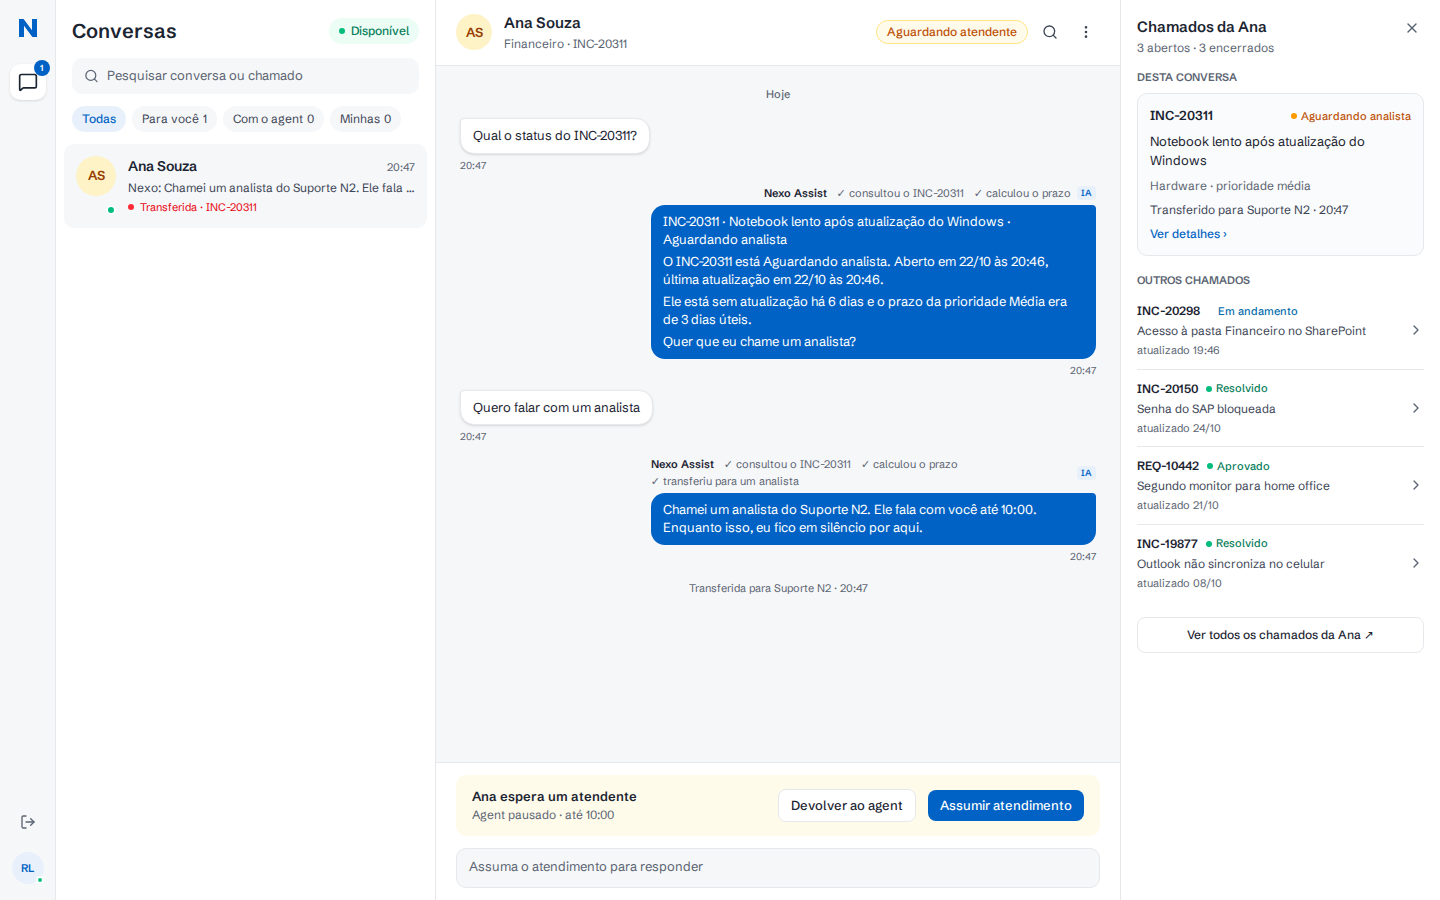
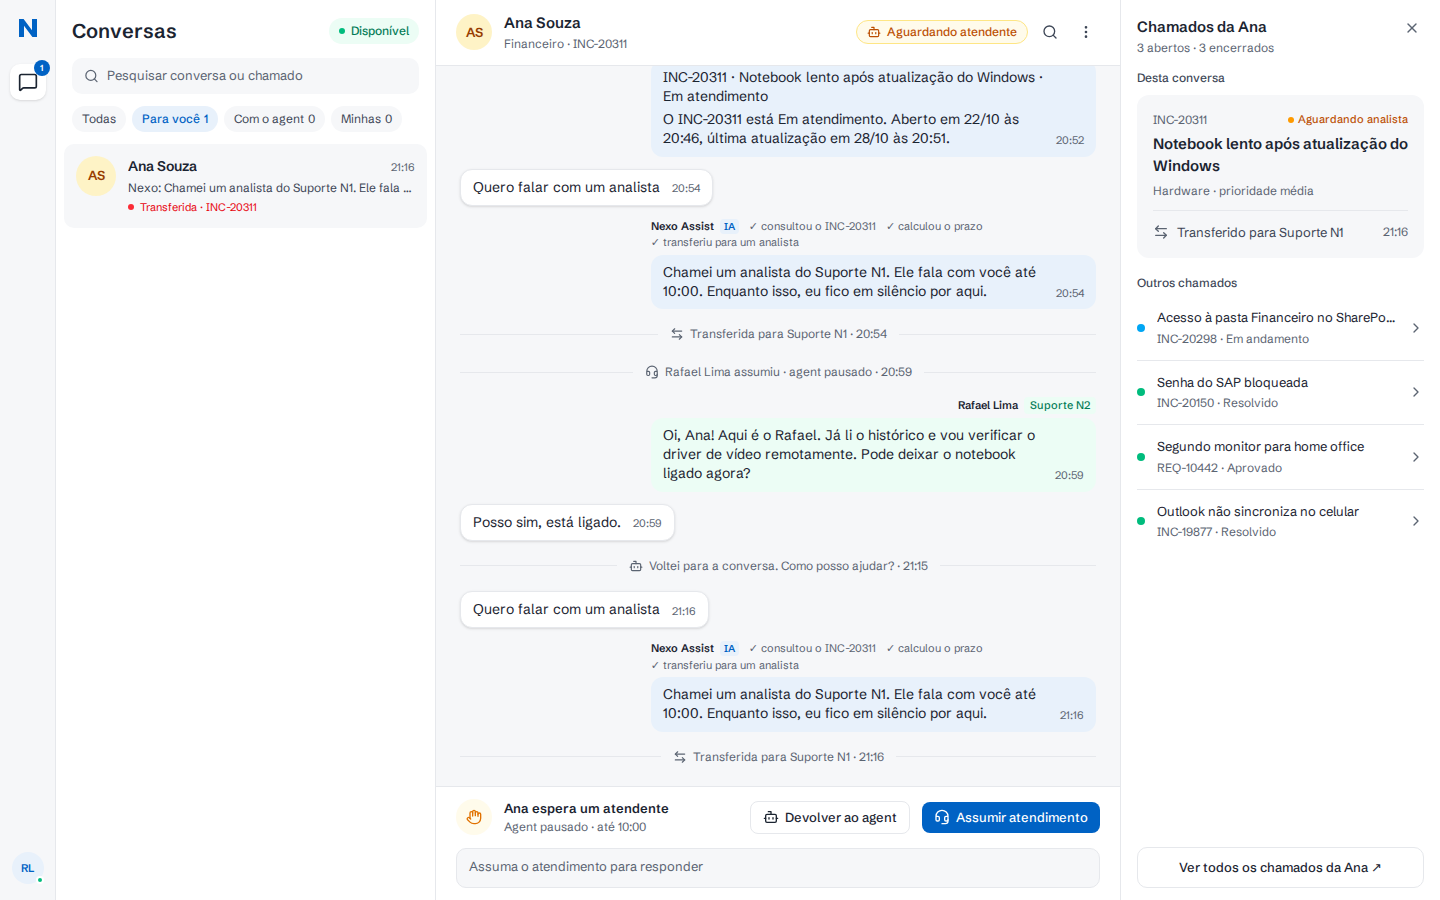
docs(console-analista): rodada 2 das telas
05 bate com a captura; em 04 resta o texto do último evento, que o André aprovou como diferença ("Mostrar a equipe (Recomendado)").

diff --git a/.specs/features/console-analista/screens.md b/.specs/features/console-analista/screens.md
@@ -1,14 +1,16 @@
 # Console do analista screens
 
 **Verifier**: independent sub-agent (author != verifier)
-**Round**: 1
+**Round**: 2
 
-Fotos tiradas pelo verificador com Chromium (playwright-core), contexto aberto já no tamanho de cada captura (1440x900 e 1567x900, escala 1x), sem redimensionar. Caminho: Ana pediu analista de novo ("Quero falar com um analista"); Rafael abriu `/console`, escolheu o filtro e clicou em "Ana Souza" (04); depois "Assumir atendimento", resposta "Oi, Ana! Aqui é o Rafael…", Ana respondeu "Posso sim, está ligado." e Rafael deixou um rascunho no campo (05). Em 05 o filtro ativo é "Todas", porque depois de assumir "Para você" fica vazio e a captura mostra a Ana na lista. Dados (nomes, horas, contadores, quantas conversas existem, não lidas, N1/N2) vêm do seed e da caminhada e não contam como diferença.
+Rodada 2: fotos retiradas por um novo verificador independente com Chromium (playwright-core), contexto aberto já no tamanho de cada captura (1440x900 e 1567x900, escala 1x), sem redimensionar. Só as linhas `differs` da rodada 1 foram reabertas; as linhas `same` ficaram como estavam. Caminho: Rafael abriu `/console`, clicou em "Ana Souza" e em "Devolver ao agent"; Ana escreveu "Quero falar com um analista" em `/`; Rafael recarregou, escolheu "Para você" e clicou em "Ana Souza" (04). Depois "Assumir atendimento", resposta curta "Oi, Ana! Aqui é o Rafael. Pode deixar o notebook ligado agora?", Ana respondeu "Posso sim, está ligado." e Rafael deixou um rascunho no campo, com o filtro "Todas" (05). O painel não mostrou "Tentar de novo" em nenhuma das fotos. Aplicadas as diferenças confirmadas da spec, inclusive as novas: sem "online" no cabeçalho e sem bolinhas de presença nos avatares da lista; lista pelo prazo de contato mais próximo; chamado no cabeçalho só enquanto a conversa aguarda (CON-14). Dados (nomes, horas, contadores, quantas conversas existem, não lidas, N1/N2) vêm do seed e da caminhada e não contam como diferença. Como a conversa da Ana já passou por várias rodadas, ela é mais longa que na captura e o separador "Hoje" fica acima da janela; conferido rolando até o topo.
+
+Rodada 1: fotos tiradas pelo verificador com Chromium (playwright-core), contexto aberto já no tamanho de cada captura (1440x900 e 1567x900, escala 1x), sem redimensionar. Caminho: Ana pediu analista de novo ("Quero falar com um analista"); Rafael abriu `/console`, escolheu o filtro e clicou em "Ana Souza" (04); depois "Assumir atendimento", resposta "Oi, Ana! Aqui é o Rafael…", Ana respondeu "Posso sim, está ligado." e Rafael deixou um rascunho no campo (05). Em 05 o filtro ativo é "Todas", porque depois de assumir "Para você" fica vazio e a captura mostra a Ana na lista. Dados (nomes, horas, contadores, quantas conversas existem, não lidas, N1/N2) vêm do seed e da caminhada e não contam como diferença.
 
 | Screen | Compared with | Verdict | Finding |
 | --- | --- | --- | --- |
-| `captures/04-console-conversa-transferida.running.png` | `captures/04-console-conversa-transferida.png` | diverges | 15 rows differ |
-| `captures/05-console-atendimento-assumido.running.png` | `captures/05-console-atendimento-assumido.png` | diverges | 13 rows differ |
+| `captures/04-console-conversa-transferida.running.png` | `captures/04-console-conversa-transferida.png` | diverges | 1 row differs (rodada 1: 15) |
+| `captures/05-console-atendimento-assumido.running.png` | `captures/05-console-atendimento-assumido.png` | matches | 0 rows differ (rodada 1: 13) |
 
 ### `captures/04-console-conversa-transferida.running.png`
 
@@ -16,29 +18,29 @@ Fotos tiradas pelo verificador com Chromium (playwright-core), contexto aberto j
 | --- | --- | --- |
 | arranjo geral: trilho à esquerda, lista "Conversas", conversa no centro, painel "Chamados da Ana" à direita | same | |
 | trilho: logo "N" no topo, ícone Conversas em botão destacado com badge numérico azul | same | badge "1" (dado) |
-| trilho embaixo: só o avatar "RL" com ponto verde | differs | um botão extra de sair (ícone de saída) acima do avatar "RL" |
+| trilho embaixo: só o avatar "RL" com ponto verde | same | rodada 2: só o avatar "RL" com o ponto verde; sem botão de sair |
 | cabeçalho da lista: título "Conversas" e chip verde "● Disponível" à direita | same | |
 | campo "Pesquisar conversa ou chamado" com lupa | same | |
 | filtros em chips: "Todas", "Para você N" (ativo, azul), "Com o agent N", "Minhas N" | same | |
-| item da lista: avatar com iniciais e ponto de presença verde preso ao canto inferior direito do avatar | differs | o ponto verde fica solto abaixo e fora do avatar, sob a coluna das iniciais |
+| item da lista: avatar com iniciais e ponto de presença verde preso ao canto inferior direito do avatar | same | rodada 2: avatar com iniciais, sem ponto de presença, como a diferença confirmada (sem bolinhas de presença) |
 | item da lista: nome, hora à direita, prévia truncada, contador de não lidas, rótulo "● Transferida · INC-20311" em vermelho; item selecionado com fundo cinza | same | sem contador de não lidas (dado: zerado ao abrir); hora "20:54" sem azul (nota) |
 | demais itens da lista (Carla, Bruno, Diego, Elisa, Fábio, Gabriela) com divisórias | same | só a Ana existe no seed para "Para você" (dado) |
-| cabeçalho da conversa: avatar "AS", nome "Ana Souza", subtítulo "online · Financeiro · INC-20311" | differs | subtítulo "Financeiro · INC-20311", sem "online" (a spec só aprova tirar "digitando…" e ✓✓) |
-| cabeçalho: selo "Aguardando atendente" com ícone à esquerda, lupa, "⋮" | differs | selo só com texto, sem o ícone |
-| separador de dia "Hoje" em pílula com borda | differs | "Hoje" como texto solto, sem pílula |
-| mensagem do funcionário: balão branco à esquerda com a hora dentro do balão, à direita do texto | differs | hora fora do balão, numa linha abaixo dele |
-| mensagem do agent: rótulo "Nexo Assist" + chip "IA" acima, balão azul-claro com texto escuro à direita, hora (e ✓✓) dentro do balão | differs | balão azul saturado com texto branco; hora fora do balão, abaixo; rótulo traz a linha de ações (aprovada, AD-007) e o chip "IA" vai para a ponta direita |
-| linha de sistema "⇄ Transferida para Suporte N2 · 10:05": ícone e traços horizontais dos dois lados | differs | só o texto centralizado, sem ícone e sem traços |
-| conversa aberta mostrando o fim: últimas mensagens e a linha de transferência logo acima da faixa | differs | a conversa abre no topo (scrollTop 0 de 1143 px); a última mensagem do agent e "Transferida para Suporte N1 · 20:54" ficam fora da janela, abaixo |
+| cabeçalho da conversa: avatar "AS", nome "Ana Souza", subtítulo "online · Financeiro · INC-20311" | same | rodada 2: "Financeiro · INC-20311"; sem "online" como a diferença confirmada; chamado presente porque a conversa aguarda (CON-14) |
+| cabeçalho: selo "Aguardando atendente" com ícone à esquerda, lupa, "⋮" | same | rodada 2: selo com ícone de robô à esquerda, lupa e "⋮" |
+| separador de dia "Hoje" em pílula com borda | same | rodada 2: pílula branca com borda; fica acima da janela porque a conversa é mais longa (dado), conferida rolando ao topo |
+| mensagem do funcionário: balão branco à esquerda com a hora dentro do balão, à direita do texto | same | rodada 2: hora dentro do balão, à direita do texto |
+| mensagem do agent: rótulo "Nexo Assist" + chip "IA" acima, balão azul-claro com texto escuro à direita, hora (e ✓✓) dentro do balão | same | rodada 2: "Nexo Assist" + chip "IA" junto ao nome, seguido da linha de ações (AD-007); balão azul-claro, texto escuro, hora dentro; sem ✓✓ (AD-009). Nota: a linha de ações quebra em duas linhas na largura de 1440 |
+| linha de sistema "⇄ Transferida para Suporte N2 · 10:05": ícone e traços horizontais dos dois lados | same | rodada 2: ícone ⇄ e traços dos dois lados |
+| conversa aberta mostrando o fim: últimas mensagens e a linha de transferência logo acima da faixa | same | rodada 2: abre no fim; a última mensagem do agent e "Transferida para Suporte N1" logo acima da faixa |
 | "digitando…" e ✓✓ | same | ausentes, como aprova AD-009 |
-| faixa: ícone de mão em círculo, "Ana espera um atendente", "Agent pausado · até HH:MM", fundo branco | differs | sem o ícone de mão; faixa com fundo amarelado em caixa arredondada |
-| botões da faixa: "Devolver ao agent" (contorno, ícone de robô) e "Assumir atendimento" (azul cheio, ícone de headset) | differs | os dois botões só com texto, sem ícones |
+| faixa: ícone de mão em círculo, "Ana espera um atendente", "Agent pausado · até HH:MM", fundo branco | same | rodada 2: mão em círculo amarelo-claro, textos, faixa de fundo branco |
+| botões da faixa: "Devolver ao agent" (contorno, ícone de robô) e "Assumir atendimento" (azul cheio, ícone de headset) | same | rodada 2: os dois com os ícones |
 | campo desabilitado "Assuma o atendimento para responder" | same | |
 | painel: cabeçalho "Chamados da Ana", "N abertos · M encerrados", X à direita | same | "3 abertos · 3 encerrados" (dado) |
-| painel: rótulos de seção "Desta conversa" e "Outros chamados" | differs | rótulos em caixa alta: "DESTA CONVERSA", "OUTROS CHAMADOS" |
-| cartão "Desta conversa": número, "● Aguardando analista" à direita, título em destaque, "Hardware · prioridade média", divisória e linha "⇄ Transferido para um analista" com hora à direita | differs | sem divisória e sem ícone; evento "Transferido para Suporte N1 · 20:54" com hora no texto; link extra "Ver detalhes ›"; cartão branco com borda em vez de fundo cinza |
-| "Outros chamados": cada linha com ponto de cor à esquerda, título, subtítulo "INC-xxxxx · status", seta "›" à direita, divisórias | differs | três linhas por chamado: número em negrito com status ao lado (ponto antes do status), título, "atualizado …"; sem ponto à esquerda |
-| botão "Ver todos os chamados da Ana ↗" preso ao pé do painel | differs | o botão fica logo abaixo da lista, no meio do painel, não no pé |
+| painel: rótulos de seção "Desta conversa" e "Outros chamados" | same | rodada 2: "Desta conversa" e "Outros chamados" sem caixa alta |
+| cartão "Desta conversa": número, "● Aguardando analista" à direita, título em destaque, "Hardware · prioridade média", divisória e linha "⇄ Transferido para um analista" com hora à direita | differs | rodada 2: cartão de fundo cinza, divisória, ícone ⇄, hora à direita e sem "Ver detalhes" (corrigido); mas o texto do evento é "Transferido para Suporte N1" em vez de "Transferido para um analista" (cópia) |
+| "Outros chamados": cada linha com ponto de cor à esquerda, título, subtítulo "INC-xxxxx · status", seta "›" à direita, divisórias | same | rodada 2: ponto à esquerda, título (truncado com "…" quando longo), "INC · status", seta e divisórias |
+| botão "Ver todos os chamados da Ana ↗" preso ao pé do painel | same | rodada 2: preso ao pé do painel |
 
 ### `captures/05-console-atendimento-assumido.running.png`
 
@@ -46,21 +48,21 @@ Fotos tiradas pelo verificador com Chromium (playwright-core), contexto aberto j
 | --- | --- | --- |
 | arranjo geral: trilho, lista, conversa, painel "Chamados da Ana" | same | |
 | trilho: logo "N", ícone Conversas com badge | same | sem badge porque "Para você" é 0 (dado, CON-11) |
-| trilho embaixo: só o avatar "RL" com ponto verde | differs | botão extra de sair acima do avatar |
+| trilho embaixo: só o avatar "RL" com ponto verde | same | rodada 2: só o avatar "RL" com ponto verde |
 | cabeçalho da lista, "Disponível", busca e chips de filtro | same | filtro ativo "Todas" (ver nota no topo) |
-| item da Ana: avatar com ponto de presença no canto do avatar, nome, hora, prévia "Posso sim, está ligado.", rótulo "● Você está atendendo" em azul | differs | o ponto verde fica solto abaixo do avatar; resto igual |
+| item da Ana: avatar com ponto de presença no canto do avatar, nome, hora, prévia "Posso sim, está ligado.", rótulo "● Você está atendendo" em azul | same | rodada 2: sem ponto de presença (diferença confirmada); nome, hora, prévia e "● Você está atendendo" em azul |
 | demais itens da lista | same | não existem no seed (dado) |
-| cabeçalho da conversa: avatar, "Ana Souza", subtítulo "online · Financeiro" | differs | subtítulo "Financeiro · INC-20311", sem "online" |
-| cabeçalho: "Devolver ao agent" (contorno, ícone de robô), "Encerrar atendimento" (fundo vermelho-claro, texto vermelho, ícone) e "⋮"; sem lupa | differs | os dois botões sem ícones; "Encerrar atendimento" em vermelho cheio com texto branco; lupa extra entre os botões e o "⋮" |
-| mensagens do funcionário: balão branco com hora dentro | differs | hora fora do balão, abaixo |
-| mensagens do agent: "Nexo Assist" + chip "IA", balão azul-claro com texto escuro e hora dentro | differs | balão azul saturado com texto branco, hora fora do balão |
-| linhas de sistema "⇄ Transferida para Suporte N2 · 10:05" e "headset Rafael Lima assumiu · agent pausado · 10:12" com ícone e traços dos dois lados | differs | só texto centralizado, sem ícones e sem traços |
-| mensagem do analista: rótulo "Rafael Lima" + chip verde "Suporte N2", balão verde-claro com texto escuro e hora dentro | differs | rótulo "Rafael Lima · Suporte N2" em texto verde, sem chip; balão verde saturado com texto branco; hora fora |
-| conversa no fim: a resposta do Rafael e "Posso sim, está ligado." visíveis logo acima do campo | differs | a conversa abre no topo (scrollTop 0 de 1263 px); a linha "Rafael Lima assumiu", a resposta do Rafael e a da Ana ficam fora da janela |
+| cabeçalho da conversa: avatar, "Ana Souza", subtítulo "online · Financeiro" | same | rodada 2: "Financeiro", sem "online" (diferença confirmada) e sem o chamado (CON-14) |
+| cabeçalho: "Devolver ao agent" (contorno, ícone de robô), "Encerrar atendimento" (fundo vermelho-claro, texto vermelho, ícone) e "⋮"; sem lupa | same | rodada 2: os dois botões com ícone, "Encerrar" vermelho-claro com texto vermelho, "⋮", sem lupa |
+| mensagens do funcionário: balão branco com hora dentro | same | rodada 2 |
+| mensagens do agent: "Nexo Assist" + chip "IA", balão azul-claro com texto escuro e hora dentro | same | rodada 2: linha de ações depois do chip (AD-007) |
+| linhas de sistema "⇄ Transferida para Suporte N2 · 10:05" e "headset Rafael Lima assumiu · agent pausado · 10:12" com ícone e traços dos dois lados | same | rodada 2: ícones ⇄ e headset, traços dos dois lados |
+| mensagem do analista: rótulo "Rafael Lima" + chip verde "Suporte N2", balão verde-claro com texto escuro e hora dentro | same | rodada 2: "Rafael Lima" + chip verde-claro "Suporte N2", balão verde-claro, texto escuro, hora dentro |
+| conversa no fim: a resposta do Rafael e "Posso sim, está ligado." visíveis logo acima do campo | same | rodada 2: abre no fim; "Rafael Lima assumiu", a resposta do Rafael e "Posso sim, está ligado." logo acima do campo |
 | ✓✓ | same | ausentes (AD-009) |
 | campo de resposta habilitado com o rascunho e botão redondo azul de enviar à direita | same | |
 | painel: cabeçalho, contagem, X | same | |
-| rótulos "Desta conversa" e "Outros chamados" | differs | em caixa alta |
-| cartão "Desta conversa": número, "● Em atendimento", título, "Hardware · prioridade média", divisória e "headset Assumido por Rafael Lima" com hora à direita | differs | status sem ponto; sem divisória e sem ícone; "Assumido por Rafael Lima · 20:59" com hora no texto; link extra "Ver detalhes ›" |
-| "Outros chamados": ponto à esquerda, título, "INC · status", seta, divisórias | differs | três linhas por chamado (número + status, título, "atualizado …"), sem ponto à esquerda |
-| botão "Ver todos os chamados da Ana ↗" no pé do painel | differs | logo abaixo da lista, no meio do painel |
+| rótulos "Desta conversa" e "Outros chamados" | same | rodada 2: sem caixa alta |
+| cartão "Desta conversa": número, "● Em atendimento", título, "Hardware · prioridade média", divisória e "headset Assumido por Rafael Lima" com hora à direita | same | rodada 2: "● Em atendimento", divisória, ícone de headset, "Assumido por Rafael Lima" com hora à direita, sem "Ver detalhes" |
+| "Outros chamados": ponto à esquerda, título, "INC · status", seta, divisórias | same | rodada 2 |
+| botão "Ver todos os chamados da Ana ↗" no pé do painel | same | rodada 2: no pé do painel |

diff --git a/.specs/features/console-analista/tasks.md b/.specs/features/console-analista/tasks.md
@@ -282,5 +282,5 @@ Proof: `bun --cwd apps/web test src/features/console/conversation-view.test.tsx 
 ## Handoff
 
 **Settled mid-build:** none
-**Dispatched:** Verifier e screens sub-agent em 2026-10-28 sobre HEAD d4d4009 (round 1); ambos returned
+**Dispatched:** Verifier e screens sub-agent em 2026-10-28 sobre HEAD d4d4009 (round 1); ambos returned. Screens sub-agent round 2 em 2026-10-28 sobre HEAD 5731adc; returned (04: 1 linha, a cópia do evento, que o André aprovou como diferença; 05: matches)
 **Walked:** 2026-10-28, `GOOGLE_GENERATIVE_AI_API_KEY= TICKETS_FAILURE_RATE=0 bun run dev` (entendimento por palavras-chave) e `bun run db:seed`; janelas de 1440x900 (04) e 1567x900 (05), qualquer senha. P1 Ver as conversas: Ana (`ana.souza@nexo.com.br`) em `/` escreve "Qual o status do INC-20311?" e "Quero falar com um analista"; Rafael (`rafael.lima@nexo.com.br`) abre `/console` e clica em "Ana Souza": lista com "Transferida · INC-20311", badge 1, "Para você 1", faixa "Ana espera um atendente · Agent pausado · até 10:00", linha "Transferida para Suporte N2 · HH:MM" e painel "Chamados da Ana" (04). P1 Assumir: "Assumir atendimento", resposta "Oi Ana, aqui é o Rafael…": "Você está atendendo", "Rafael Lima assumiu · agent pausado", "Rafael Lima · Suporte N2", "Devolver ao agent" e "Encerrar atendimento" no cabeçalho, INC-20311 "Em atendimento" com "Assumido por Rafael Lima" (05). O serviço simula quedas: o painel pode mostrar "Não foi possível carregar os chamados · Tentar de novo"; clicar recarrega. P1 Devolver: Ana vê a resposta do Rafael; "Devolver ao agent" grava "Voltei para a conversa. Como posso ajudar?" e a próxima mensagem da Ana recebe o card do INC-20311 do agent. Para voltar a 04 depois disso, a Ana pede um analista de novo. P1 Persistir: coberto por C32 (app novo sobre o mesmo banco).

diff --git a/.specs/features/console-analista/spec.md b/.specs/features/console-analista/spec.md
@@ -218,6 +218,7 @@ Os analistas do Suporte N1 e N2 precisam ver as conversas que dependem deles, in
 | Linha de ações do agent sem detalhe | Clique abre o painel lateral "Por que o Nexo fez isso" | y - AD-007 |
 | Tema claro | Tema claro, sem o alternador de tema da base | y - AD-011 |
 | "online" no cabeçalho e bolinhas verdes de presença nos avatares (04, 05) | Nada (sem presença em tempo real) | y - André, 2026-10-28: "Tirar (Recomendado)" |
+| "Transferido para um analista" no último evento do cartão "Desta conversa" (04) | "Transferido para <equipe>" (Suporte N1 ou N2), a equipe real do evento | y - André, 2026-10-28: "Mostrar a equipe (Recomendado)" |
 | Ana (contato até 12:05) acima de Carla ("contato em 25 min") na lista (04) | Aguardando pelo prazo de contato mais próximo, como CON-07 | y - André, 2026-10-28: "Prazo mais próximo (Recomendado)" |
 
 ## Success Criteria
